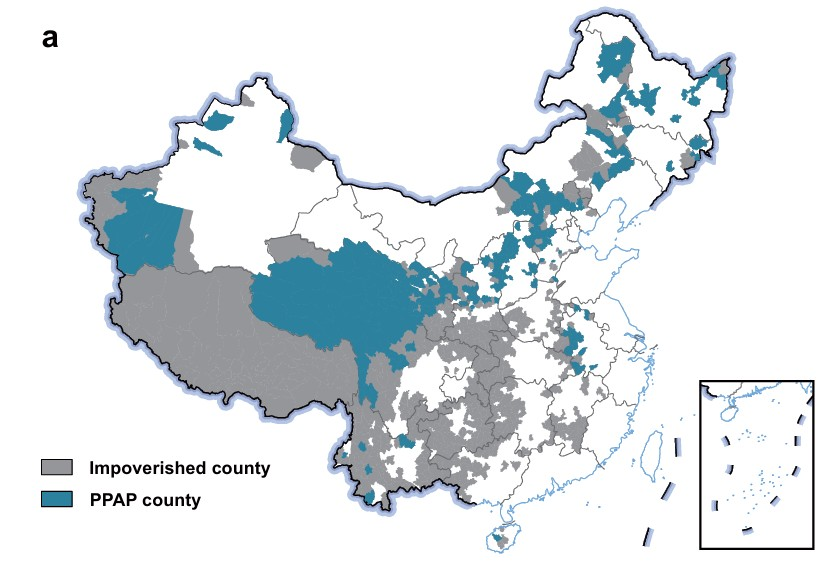
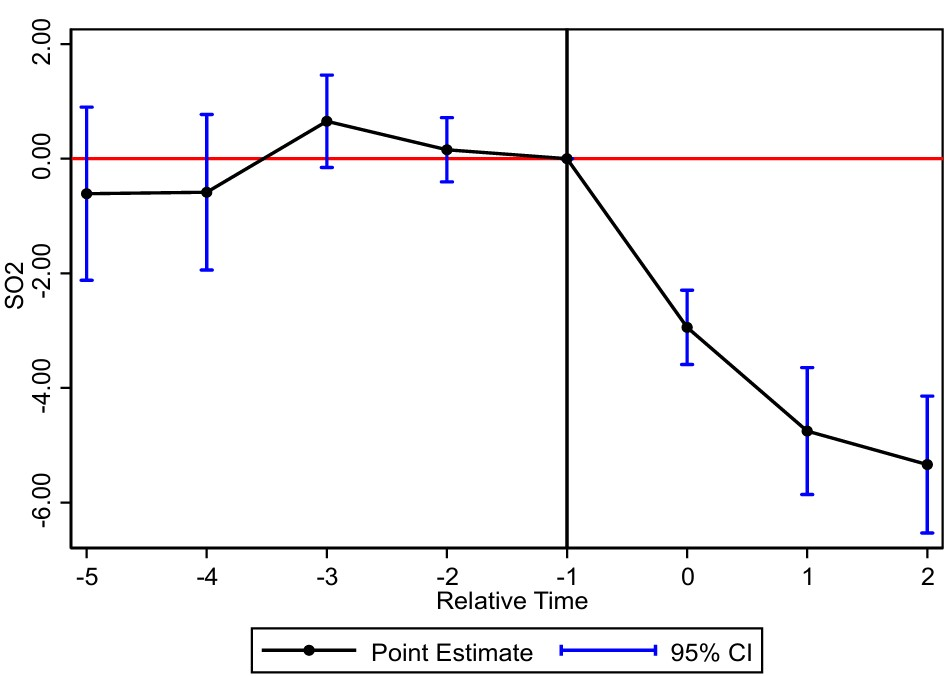
a

Changed region(s): [[0.0, 0.0, 0.9988, 1.0], [0.3632, 0.3396, 0.3935, 0.3705]]

diff --git a/docs/resources.html b/docs/resources.html
@@ -290,25 +290,7 @@ window.Quarto = {
 
 <div class="quarto-listing quarto-listing-container-grid" id="listing-recent-posts">
 <div class="list grid quarto-listing-cols-3">
-<div class="g-col-1" data-index="0" data-categories="cmVzZWFyY2glMkNwYXBlcg==" data-listing-date-sort="1782316800000" data-listing-file-modified-sort="1782202276660" data-listing-date-modified-sort="NaN" data-listing-reading-time-sort="1" data-listing-word-count-sort="7">
-<a href="./resources/Perovskite/index.html" class="quarto-grid-link">
-<div class="quarto-grid-item card h-100 card-left">
-<p class="card-img-top">
-<img loading="lazy" src="./resources/Perovskite/figure1.JPG" class="thumbnail-image card-img" style="height: 150px;">
-</p>
-<div class="card-body post-contents">
-<h5 class="no-anchor card-title listing-title">
-Next-Generation Application of Perovskite Photovoltaics
-</h5>
-<div class="card-attribution card-text-small end">
-<div class="listing-date">
-Jun 25, 2026
-</div>
-</div>
-</div>
-</div></a>
-</div>
-<div class="g-col-1" data-index="1" data-categories="cmVzZWFyY2glMkNwYXBlcg==" data-listing-date-sort="1756828800000" data-listing-file-modified-sort="1782202126408" data-listing-date-modified-sort="NaN" data-listing-reading-time-sort="1" data-listing-word-count-sort="7">
+<div class="g-col-1" data-index="0" data-categories="cmVzZWFyY2glMkNwYXBlcg==" data-listing-date-sort="1779811200000" data-listing-file-modified-sort="1782206224881" data-listing-date-modified-sort="NaN" data-listing-reading-time-sort="1" data-listing-word-count-sort="9">
 <a href="./resources/PPAP/index.html" class="quarto-grid-link">
 <div class="quarto-grid-item card h-100 card-left">
 <p class="card-img-top">
@@ -316,17 +298,35 @@ Jun 25, 2026
 </p>
 <div class="card-body post-contents">
 <h5 class="no-anchor card-title listing-title">
-The Economic and Ecological Returns of Phovolotaics Allivation Program
+Stata Code to Conduct and Test DID Model
 </h5>
 <div class="card-attribution card-text-small end">
 <div class="listing-date">
-Sep 3, 2025
+May 27, 2026
 </div>
 </div>
 </div>
 </div></a>
 </div>
-<div class="g-col-1" data-index="2" data-categories="dHVyb3RpYWw=" data-listing-date-sort="1741536000000" data-listing-file-modified-sort="1782203792891" data-listing-date-modified-sort="NaN" data-listing-reading-time-sort="1" data-listing-word-count-sort="7">
+<div class="g-col-1" data-index="1" data-categories="ZGF0YXNldA==" data-listing-date-sort="1764691200000" data-listing-file-modified-sort="1782206203583" data-listing-date-modified-sort="NaN" data-listing-reading-time-sort="1" data-listing-word-count-sort="9">
+<a href="./resources/PVsite/index.html" class="quarto-grid-link">
+<div class="quarto-grid-item card h-100 card-left">
+<p class="card-img-top">
+<img loading="lazy" src="./resources/PVsite/figure1.JPG" class="thumbnail-image card-img" style="height: 150px;">
+</p>
+<div class="card-body post-contents">
+<h5 class="no-anchor card-title listing-title">
+Remote Sensing Dataset of Global PV Station
+</h5>
+<div class="card-attribution card-text-small end">
+<div class="listing-date">
+Dec 3, 2025
+</div>
+</div>
+</div>
+</div></a>
+</div>
+<div class="g-col-1" data-index="2" data-categories="dHVyb3RpYWw=" data-listing-date-sort="1741536000000" data-listing-file-modified-sort="1782204658432" data-listing-date-modified-sort="NaN" data-listing-reading-time-sort="1" data-listing-word-count-sort="9">
 <a href="./resources/LCA/index.html" class="quarto-grid-link">
 <div class="quarto-grid-item card h-100 card-left">
 <p class="card-img-top">

diff --git a/docs/research.html b/docs/research.html
@@ -290,7 +290,7 @@ window.Quarto = {
 
 <div class="quarto-listing quarto-listing-container-grid" id="listing-recent-posts">
 <div class="list grid quarto-listing-cols-3">
-<div class="g-col-1" data-index="0" data-categories="cmVzZWFyY2glMkNwYXBlcg==" data-listing-date-sort="1782316800000" data-listing-file-modified-sort="1782202276660" data-listing-date-modified-sort="NaN" data-listing-reading-time-sort="1" data-listing-word-count-sort="7">
+<div class="g-col-1" data-index="0" data-categories="cmVzZWFyY2glMkNwYXBlcg==" data-listing-date-sort="1782316800000" data-listing-file-modified-sort="1782204739882" data-listing-date-modified-sort="NaN" data-listing-reading-time-sort="1" data-listing-word-count-sort="7">
 <a href="./posts/Perovskite/index.html" class="quarto-grid-link">
 <div class="quarto-grid-item card h-100 card-left">
 <p class="card-img-top">
@@ -308,7 +308,7 @@ Jun 25, 2026
 </div>
 </div></a>
 </div>
-<div class="g-col-1" data-index="1" data-categories="cmVzZWFyY2glMkNwYXBlcg==" data-listing-date-sort="1756828800000" data-listing-file-modified-sort="1782202126408" data-listing-date-modified-sort="NaN" data-listing-reading-time-sort="1" data-listing-word-count-sort="7">
+<div class="g-col-1" data-index="1" data-categories="cmVzZWFyY2glMkNwYXBlcg==" data-listing-date-sort="1756828800000" data-listing-file-modified-sort="1782204817928" data-listing-date-modified-sort="NaN" data-listing-reading-time-sort="1" data-listing-word-count-sort="7">
 <a href="./posts/PPAP/index.html" class="quarto-grid-link">
 <div class="quarto-grid-item card h-100 card-left">
 <p class="card-img-top">
@@ -326,7 +326,7 @@ Sep 3, 2025
 </div>
 </div></a>
 </div>
-<div class="g-col-1" data-index="2" data-categories="cmVzZWFyY2glMkNwcm9qZWN0" data-listing-date-sort="1741536000000" data-listing-file-modified-sort="1782202695075" data-listing-date-modified-sort="NaN" data-listing-reading-time-sort="1" data-listing-word-count-sort="7">
+<div class="g-col-1" data-index="2" data-categories="cmVzZWFyY2glMkNwcm9qZWN0" data-listing-date-sort="1741536000000" data-listing-file-modified-sort="1782204691479" data-listing-date-modified-sort="NaN" data-listing-reading-time-sort="1" data-listing-word-count-sort="7">
 <a href="./posts/LCA/index.html" class="quarto-grid-link">
 <div class="quarto-grid-item card h-100 card-left">
 <p class="card-img-top">

diff --git a/posts.html b/posts.html
@@ -306,7 +306,7 @@ window.Quarto = {
     </div>
 </div>
 <div class="list quarto-listing-default">
-<div class="quarto-post image-right" data-index="0" data-categories="cmVzZWFyY2glMkNwYXBlcg==" data-listing-date-sort="1782316800000" data-listing-file-modified-sort="1782202276660" data-listing-date-modified-sort="NaN" data-listing-reading-time-sort="1" data-listing-word-count-sort="7">
+<div class="quarto-post image-right" data-index="0" data-categories="cmVzZWFyY2glMkNwYXBlcg==" data-listing-date-sort="1782316800000" data-listing-file-modified-sort="1782204739882" data-listing-date-modified-sort="NaN" data-listing-reading-time-sort="1" data-listing-word-count-sort="7">
 <div class="thumbnail"><a href="/posts\Perovskite\index.qmd" class="no-external">
 
 <img loading='lazy' src="/posts/Perovskite/figure1.JPG" class="thumbnail-image"  >
@@ -338,7 +338,7 @@ Yifei Yuan
 </a>
 </div>
 </div>
-<div class="quarto-post image-right" data-index="1" data-categories="cmVzZWFyY2glMkNwYXBlcg==" data-listing-date-sort="1756828800000" data-listing-file-modified-sort="1782202126408" data-listing-date-modified-sort="NaN" data-listing-reading-time-sort="1" data-listing-word-count-sort="7">
+<div class="quarto-post image-right" data-index="1" data-categories="cmVzZWFyY2glMkNwYXBlcg==" data-listing-date-sort="1756828800000" data-listing-file-modified-sort="1782204817928" data-listing-date-modified-sort="NaN" data-listing-reading-time-sort="1" data-listing-word-count-sort="7">
 <div class="thumbnail"><a href="/posts\PPAP\index.qmd" class="no-external">
 
 <img loading='lazy' src="/posts/PPAP/PPAP.JPG" class="thumbnail-image"  >
@@ -370,7 +370,7 @@ Yifei Yuan
 </a>
 </div>
 </div>
-<div class="quarto-post image-right" data-index="2" data-categories="cmVzZWFyY2glMkNwcm9qZWN0" data-listing-date-sort="1741536000000" data-listing-file-modified-sort="1782202695075" data-listing-date-modified-sort="NaN" data-listing-reading-time-sort="1" data-listing-word-count-sort="7">
+<div class="quarto-post image-right" data-index="2" data-categories="cmVzZWFyY2glMkNwcm9qZWN0" data-listing-date-sort="1741536000000" data-listing-file-modified-sort="1782204691479" data-listing-date-modified-sort="NaN" data-listing-reading-time-sort="1" data-listing-word-count-sort="7">
 <div class="thumbnail"><a href="/posts\LCA\index.qmd" class="no-external">
 
 <img loading='lazy' src="/posts/LCA/figure1.png" class="thumbnail-image"  >

diff --git a/docs/resources/LCA/index.html b/docs/resources/LCA/index.html
@@ -253,7 +253,8 @@ https://badge.dimensions.ai/
 </header>
 
 
-<p><a href="https://drganghe.github.io/quarto-academic-website-template/"><img src="figure1.png" class="img-fluid" style="width:90.0%"></a></p>
+<p><a href="https://www.dropbox.com/scl/fo/jxvcygyk1dvho63xftui2/AMR6RoDEMaS8pYi-pT9phHE?rlkey=mepidb5bdcmdfnfmzay8rqgkn&amp;dl=0"><img src="figure1.png" class="img-fluid" style="width:90.0%"></a></p>
+<p><a href="https://www.dropbox.com/scl/fo/jxvcygyk1dvho63xftui2/AMR6RoDEMaS8pYi-pT9phHE?rlkey=mepidb5bdcmdfnfmzay8rqgkn&amp;dl=0">Click to download</a></p>
 <!--Include social share buttons-->
 <!-- 
 AddToAny check more: https://www.addtoany.com/buttons/for/website 

diff --git a/docs/posts/PPAP/index.html b/docs/posts/PPAP/index.html
@@ -250,7 +250,7 @@ https://badge.dimensions.ai/
 </header>
 
 
-<p><a href="https://drganghe.github.io/quarto-academic-website-template/"><img src="PPAP.JPG" class="img-fluid" style="width:90.0%"></a></p>
+<p><a href="https://www.nature.com/articles/s44458-026-00091-1"><img src="PPAP.JPG" class="img-fluid" style="width:90.0%"></a></p>
 <!--Include social share buttons-->
 <!-- 
 AddToAny check more: https://www.addtoany.com/buttons/for/website 

diff --git a/docs/posts/Perovskite/index.html b/docs/posts/Perovskite/index.html
@@ -250,7 +250,7 @@ https://badge.dimensions.ai/
 </header>
 
 
-<p><a href="https://drganghe.github.io/quarto-academic-website-template/"><img src="figure1.JPG" class="img-fluid" style="width:90.0%"></a></p>
+<p><img src="figure1.JPG" class="img-fluid" style="width:90.0%"></p>
 <!--Include social share buttons-->
 <!-- 
 AddToAny check more: https://www.addtoany.com/buttons/for/website 